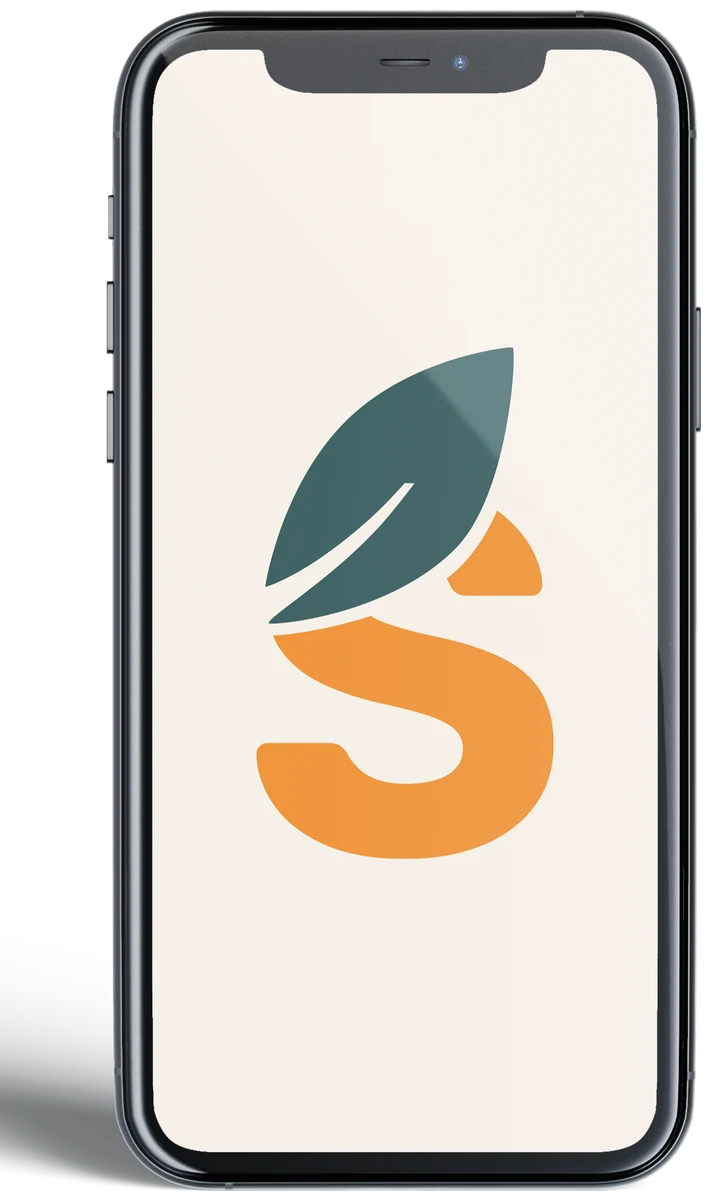
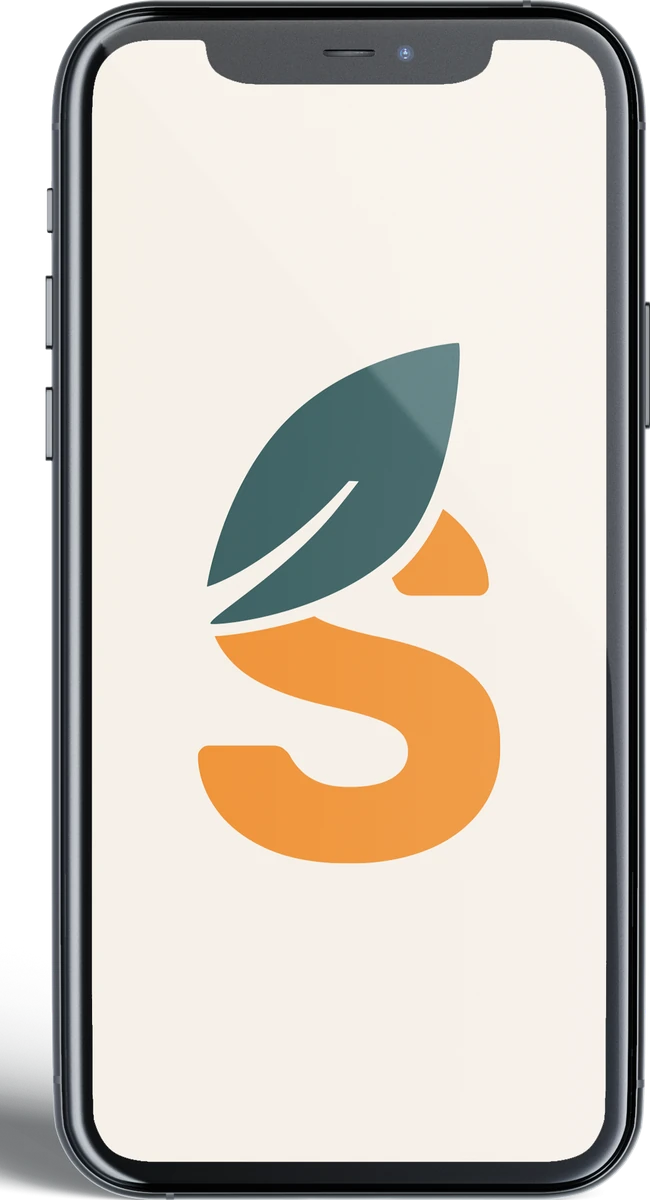
fix: three mobile polish issues on the public site
- long button labels wrap inside the pill on phones instead of pushing the
  arrow out through the rounded edge; the arrow is also a little shorter
  there, and the audience card gives its text column back some width so
  the label settles on two lines rather than three
- photo bands keep the page gutter on phones again instead of bleeding to
  the viewport edges
- the phone cut-out is now cropped to the device body, so the baked-in
  shadow is no longer sliced off at a hard edge; the soft shadow under it
  comes from CSS, which reads naturally at every size

diff --git a/src/assets/css/site.css b/src/assets/css/site.css
@@ -198,13 +198,6 @@
   max-width: calc(var(--fs-container-narrow) + 2 * var(--fs-gutter));
 }
 
-/* Photo bands touch the viewport edges on phones, as in every mobile mockup. */
-@media (max-width: 640px) {
-  .fs-container > .fs-banner {
-    margin-inline: calc(-1 * var(--fs-gutter));
-  }
-}
-
 /* The legacy stylesheet sets `overflow-x: hidden` on html, body and #app,
    which turns them into scroll containers and stops `position: sticky` (the
    header) from ever sticking. `clip` hides horizontal overflow without

diff --git a/src/components/site/SiteButton.vue b/src/components/site/SiteButton.vue
@@ -165,11 +165,24 @@ const bind = computed(() => {
 }
 
 @media (max-width: 640px) {
+  /* The card columns are narrow here, so a long label has to wrap: without
+     this the nowrap text pushes the arrow outside the pill. */
   .fs-btn {
     --btn-h: 42px;
     --btn-px: 18px;
     --btn-fs: 0.8125rem;
     gap: 14px;
+    min-width: 0;
+    padding: 9px var(--btn-px);
+    white-space: normal;
+  }
+
+  .fs-btn--arrow {
+    gap: 12px;
+  }
+
+  .fs-btn__label {
+    min-width: 0;
   }
 
   .fs-btn--lg {

diff --git a/src/content/site.js b/src/content/site.js
@@ -51,7 +51,7 @@ export const cutouts = {
 /** Intrinsic pixel sizes of the cut-outs, so the browser reserves space before they load. */
 export const cutoutSizes = {
   phonePlates: [1199, 1019],
-  phone: [711, 1200],
+  phone: [650, 1200],
   manTablet: [916, 1372],
   bakery: [1220, 903],
   restaurant: [1137, 681],

diff --git a/src/components/site/SiteAudienceCards.vue b/src/components/site/SiteAudienceCards.vue
@@ -163,7 +163,7 @@ const k = computed(() => `hp.audience.${props.variant}`)
 
 @media (max-width: 480px) {
   .fs-aud__card {
-    grid-template-columns: minmax(0, 1fr) 38%;
+    grid-template-columns: minmax(0, 1fr) 33%;
     gap: 14px;
     padding: 22px 20px 26px;
   }

diff --git a/src/components/site/SiteArrow.vue b/src/components/site/SiteArrow.vue
@@ -22,4 +22,10 @@
   flex: none;
   transition: transform var(--fs-transition);
 }
+
+@media (max-width: 640px) {
+  .fs-arrow {
+    width: 1.75em;
+  }
+}
 </style>
